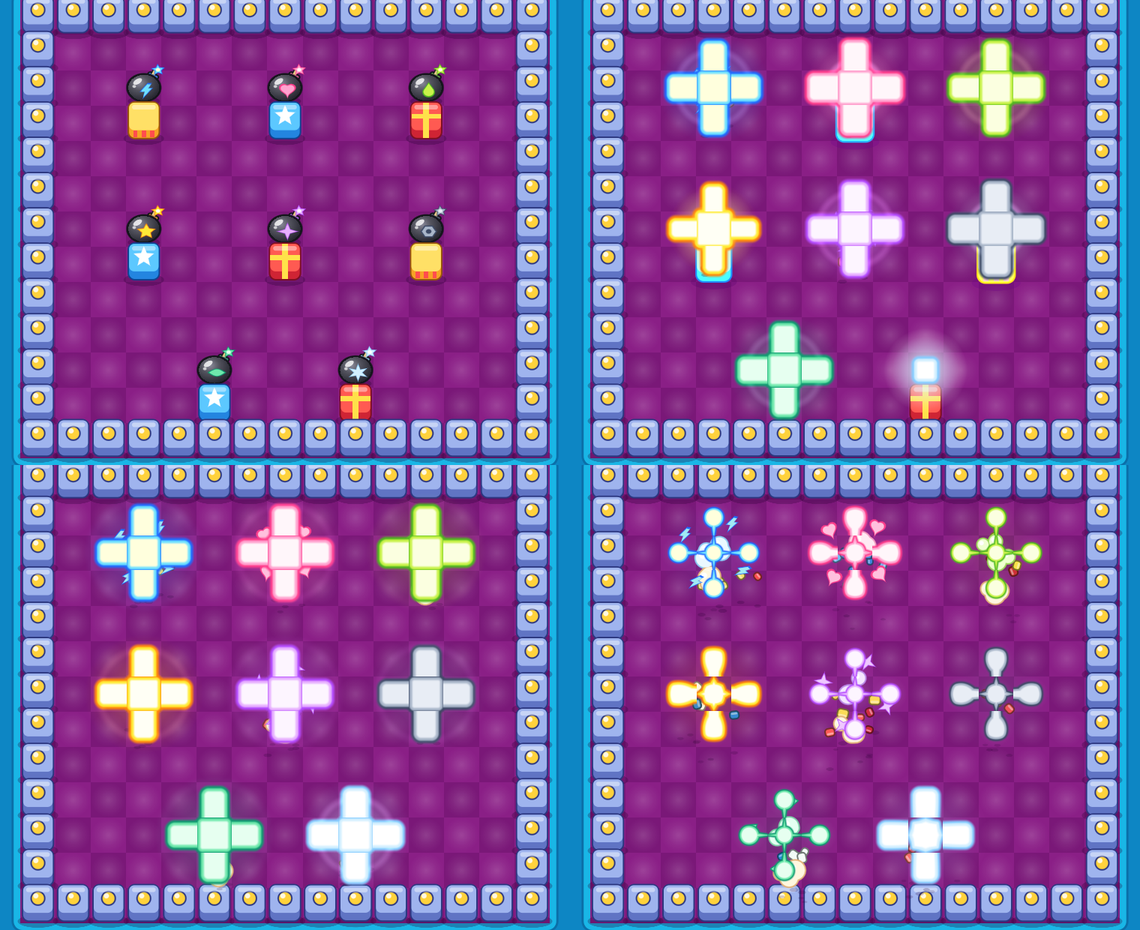
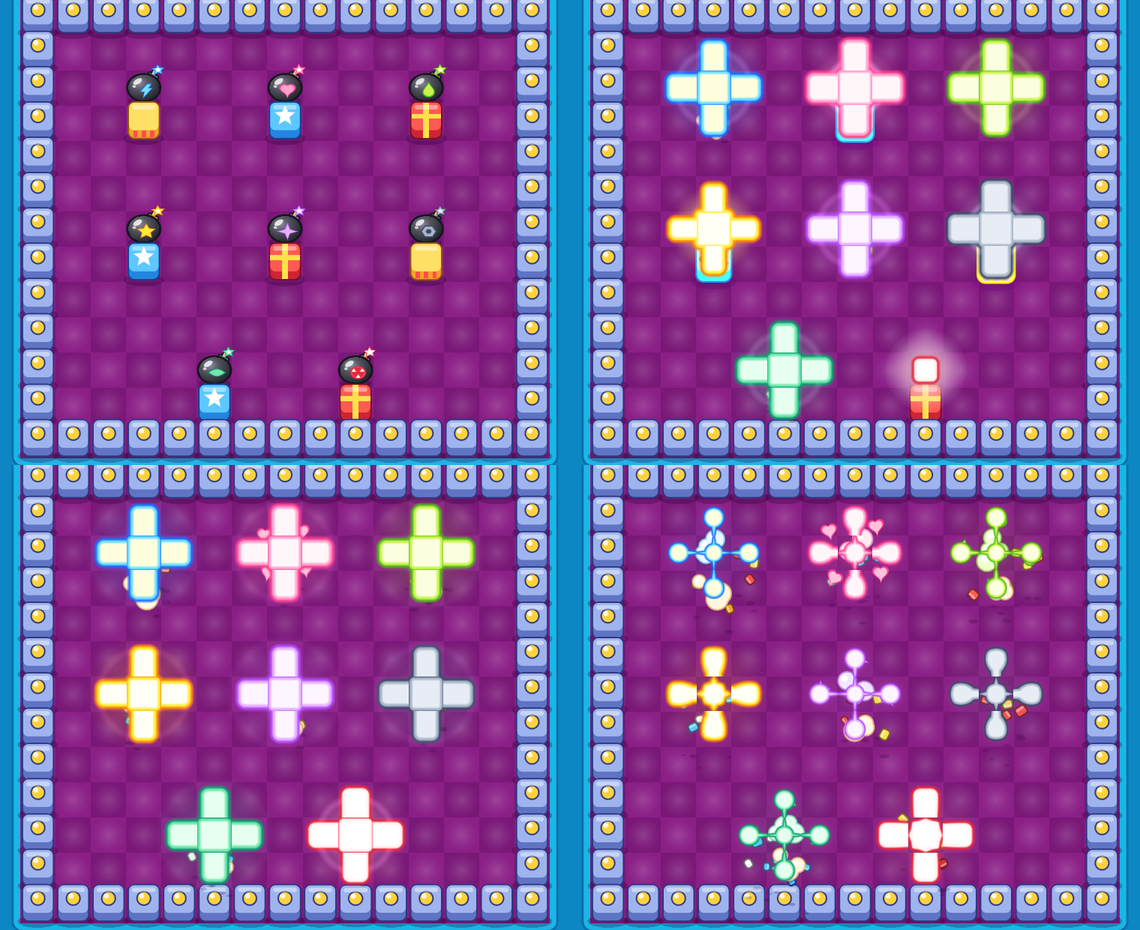
Explosion lab: Snow's bomb effect becomes peppermint
Frost (white and ice blue) read too close to Blue's spark. Snow is now a
white blast with a candy-red rim and a peppermint swirl as its burst shape
and emblem.

Claude-Session: https://claude.ai/code/session_01VW1GsVCsr1tKW79LQdamJ3

diff --git a/experiments/explosion_lab/README.md b/experiments/explosion_lab/README.md
@@ -53,7 +53,7 @@ changes only the colours, the shape that bursts out, and the emblem on the bomb.
 | Violet | Magic | white, lilac, purple | four-point twinkle |
 | Slate | Steel | pale steel, grey, dark slate | hex nut |
 | Mint | Leaf | pale mint, mint, teal | leaf |
-| Snow | Frost | white, ice, sky blue | snowflake |
+| Snow | Peppermint | white, white, candy red | peppermint swirl |
 
 `T` picks the robot whose bombs a click places; `O` sets one bomb per robot side by
 side. The chain and random presets mix robots.
